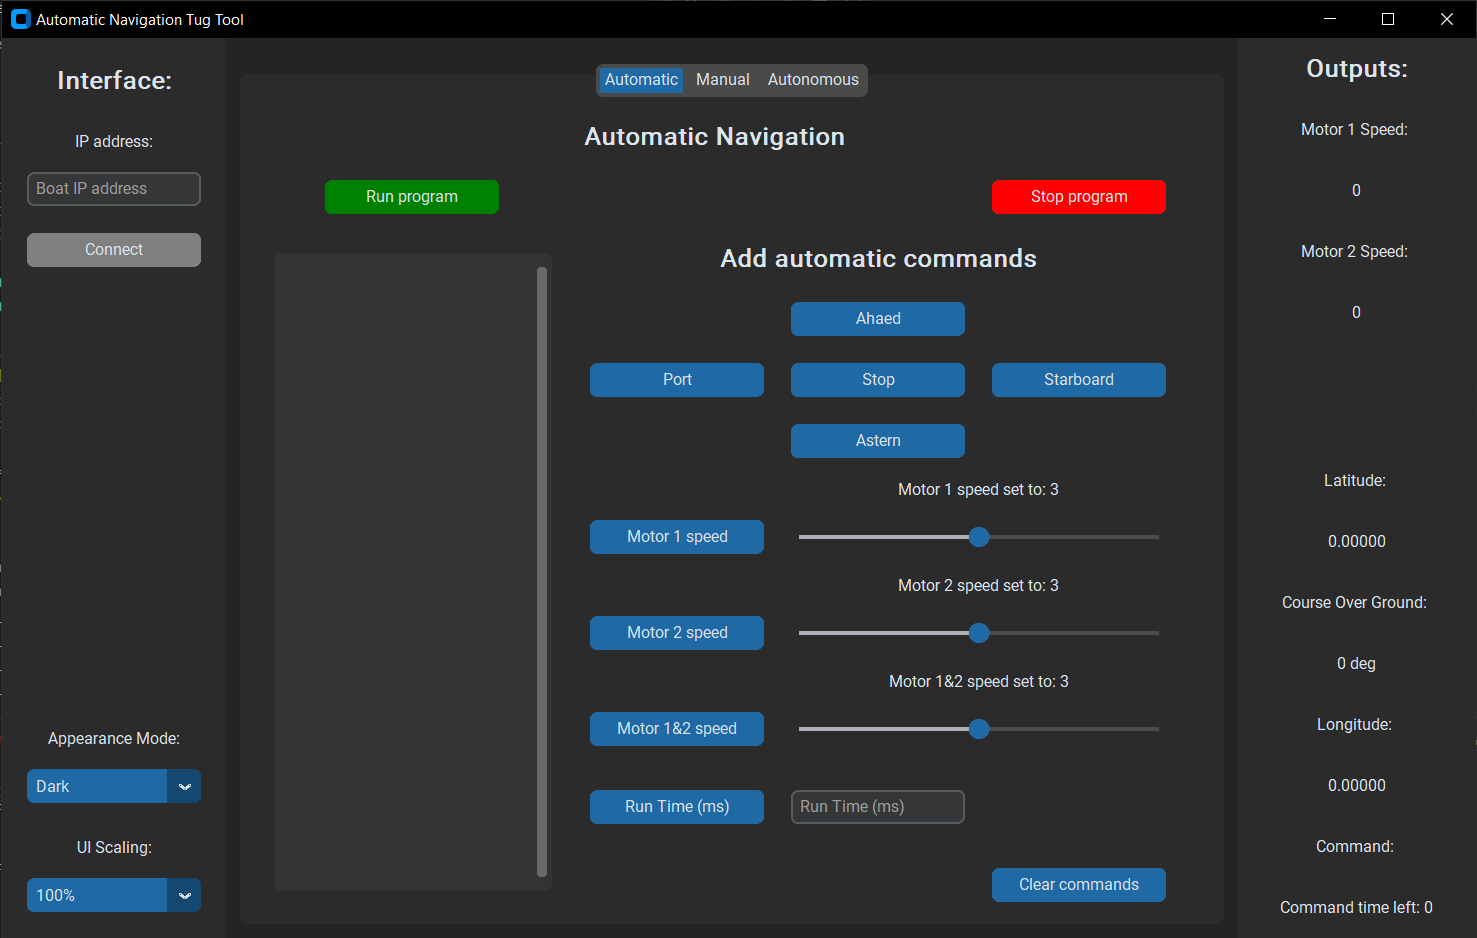
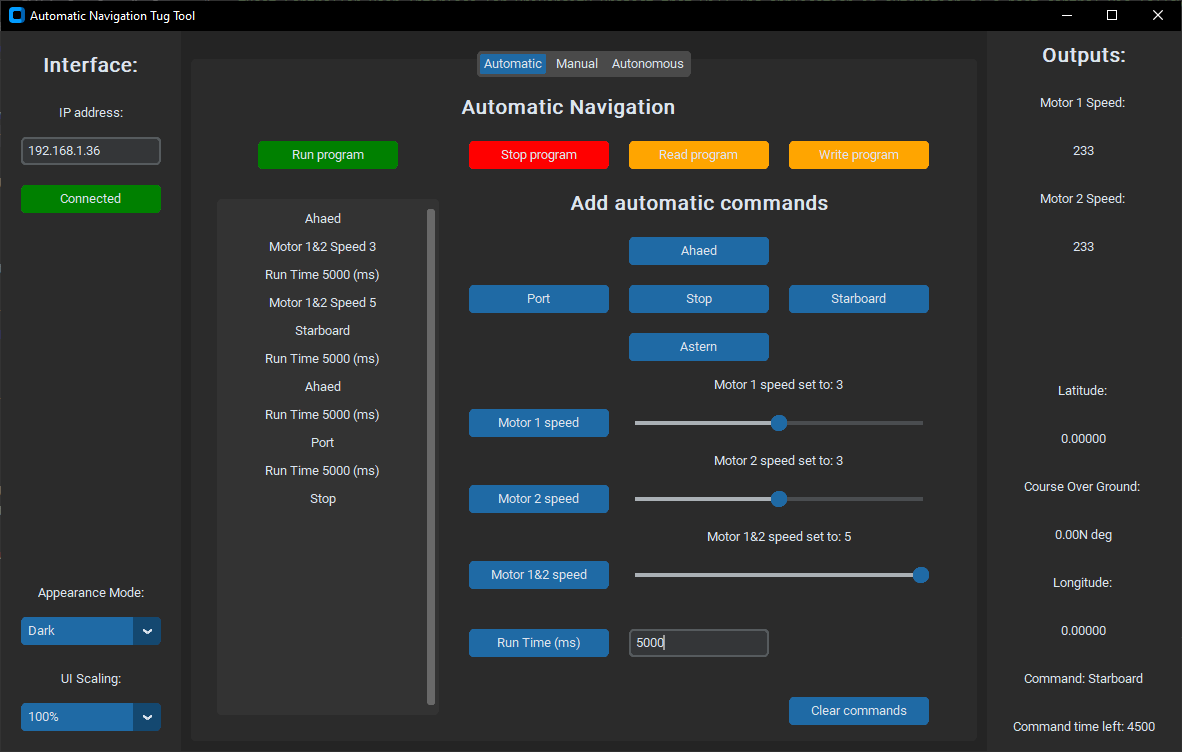
Version 6 completed on 12 April 2023
- Version 6 completed on 12 April 2023:
        Read and Write program functions have been added, this will allow user to export and import commands from and to the list.

diff --git a/README.md b/README.md
@@ -18,3 +18,5 @@ Version control:
         Added updating outputs coming from a webserver.
 - Version 5 completed on 22 March 2023:
         Terms on the UI have been adjusted to the standarised approach of the project.
+- Version 6 completed on 12 April 2023:
+        Read and Write program functions have been added, this will allow user to export and import commands from and to the list.
